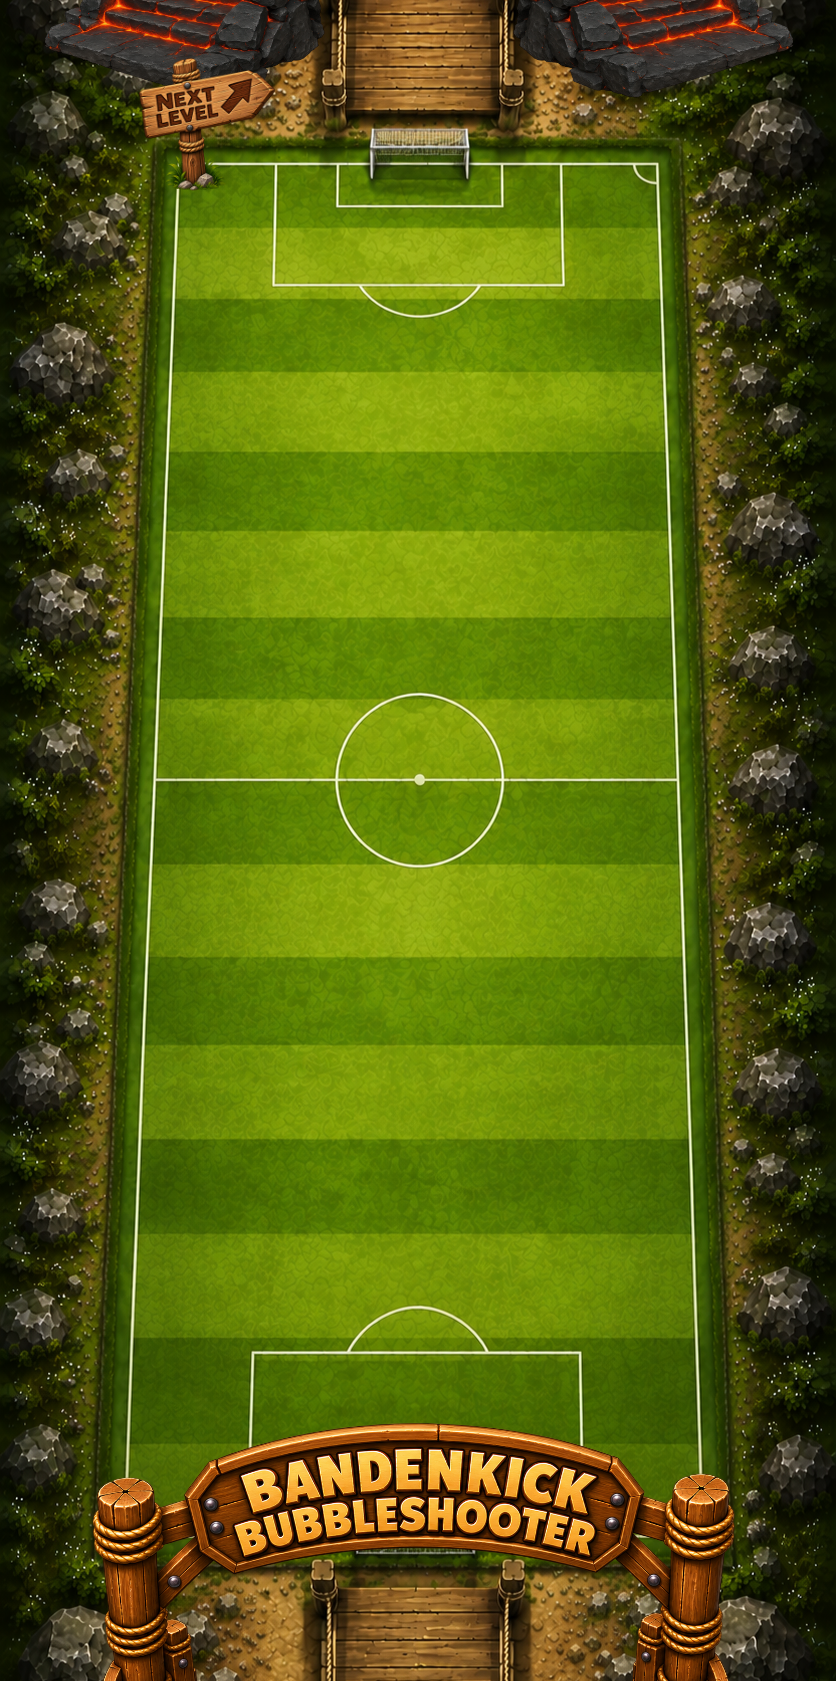
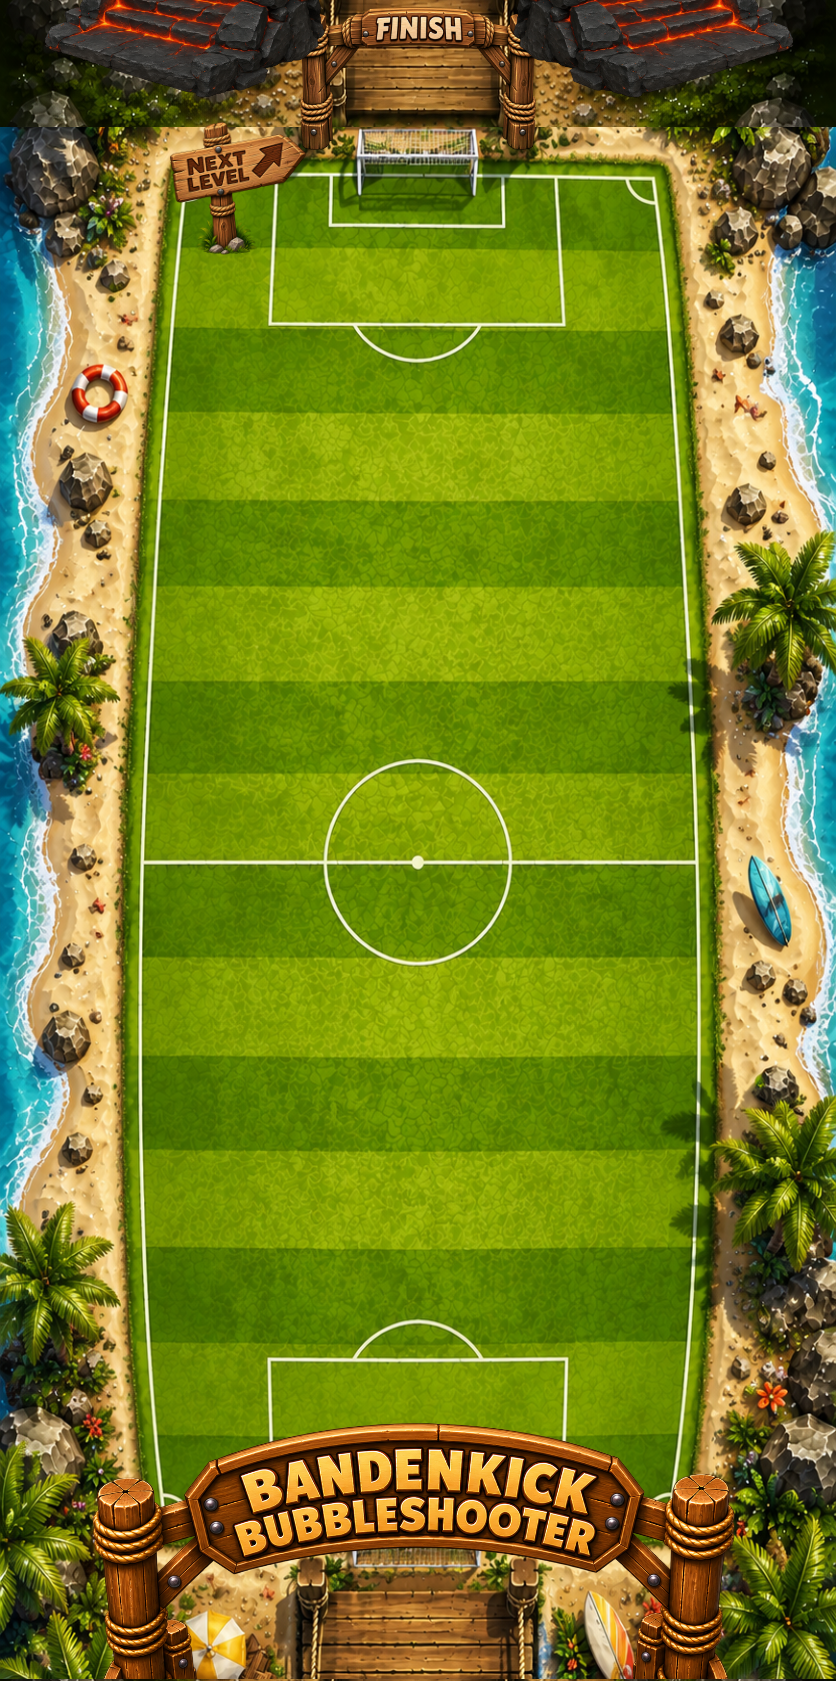
Version 35

diff --git a/css/worldMap2.css b/css/worldMap2.css
@@ -742,7 +742,7 @@ body:has(#levelScreen.world2-level-overlay:not(.hidden)) {
 }
 
 #worldMap2Screen::after {
-  content: "UPDATE TEST Version 34";
+  content: "UPDATE TEST Version 35";
   position: fixed;
   top: 5px;
   left: 50%;
